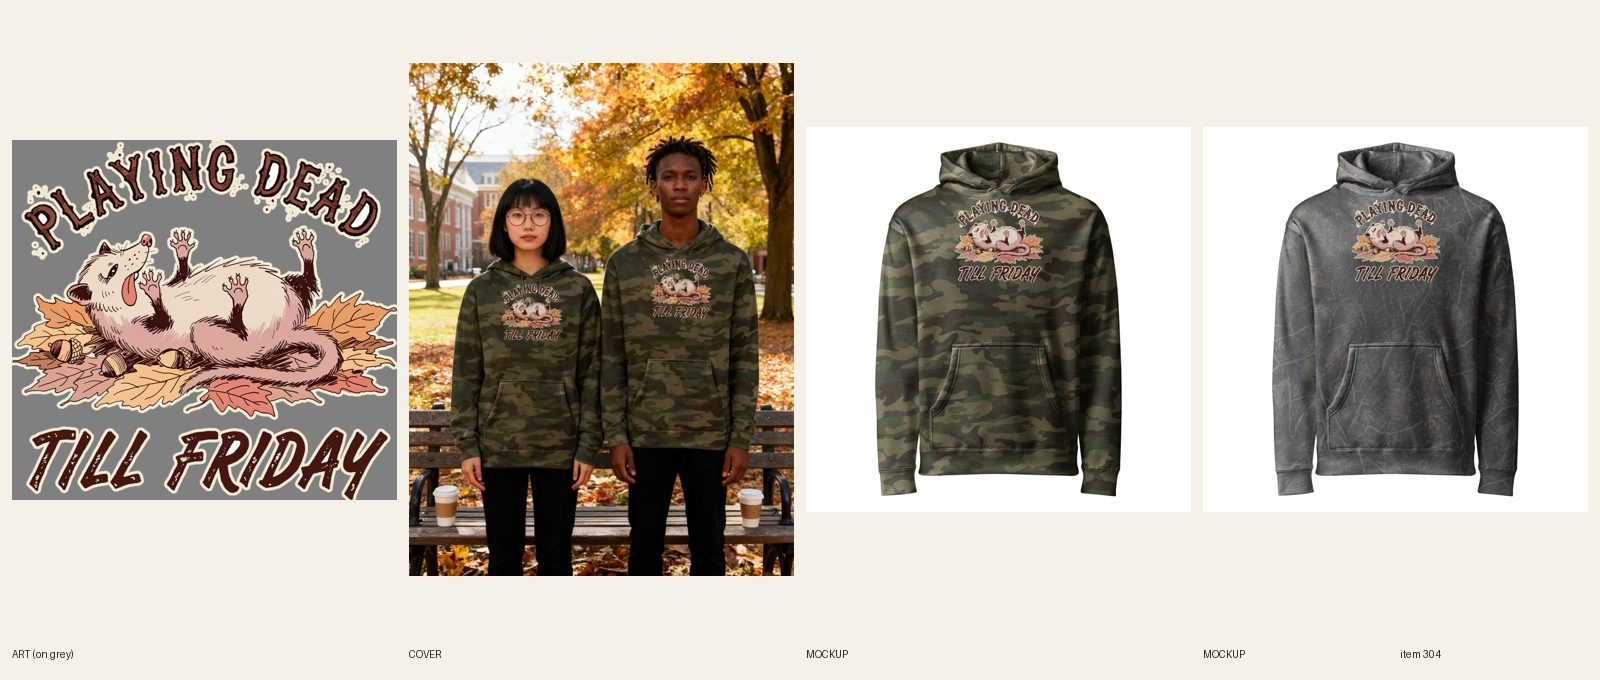
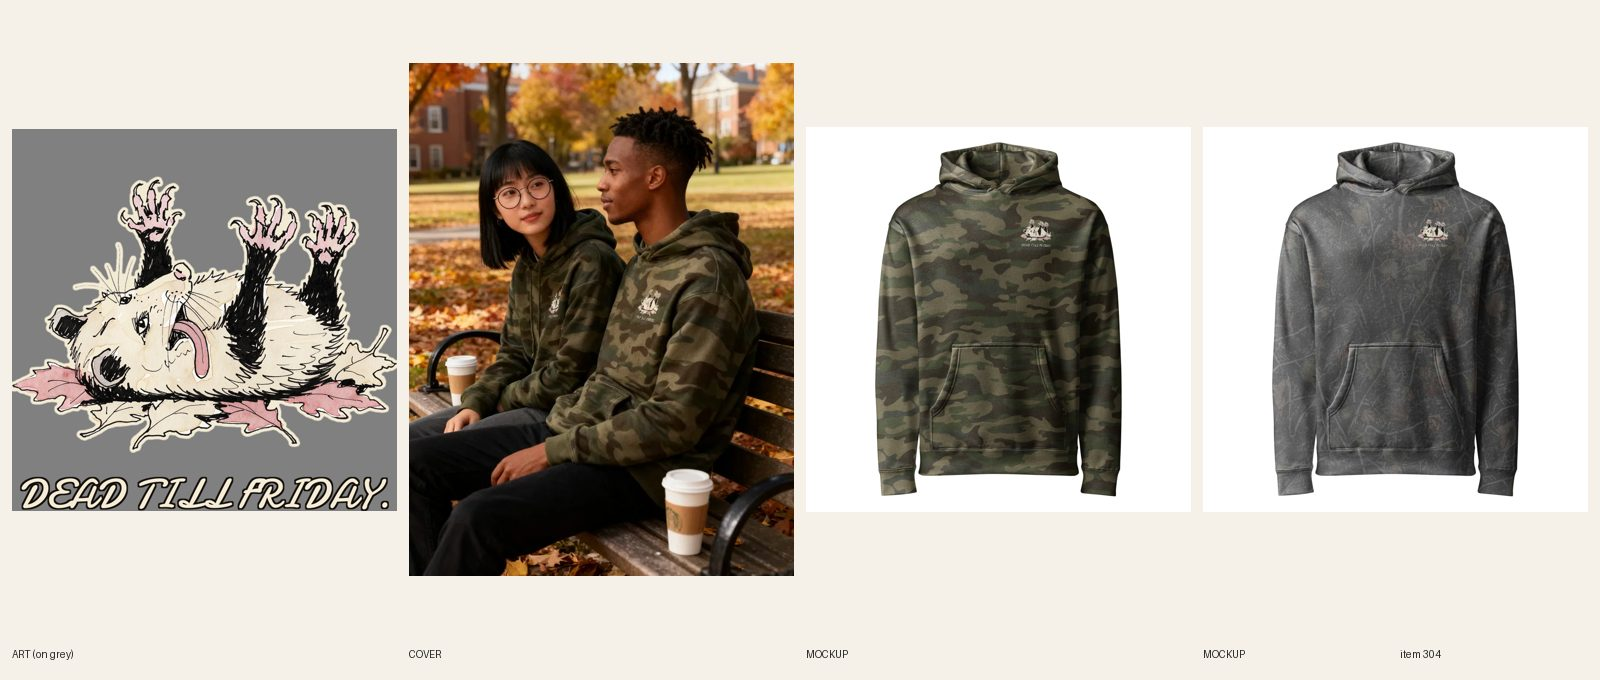
[B] review 304 camo redo 14 (possum sketchbook B3 print, lifestyle photos); run end, release lock

Changed region(s): [[0.0, 0.0926, 0.5, 0.8647], [0.8438, 0.2779, 0.9062, 0.4324], [0.5938, 0.2779, 0.6562, 0.4324]]

diff --git a/src/data/covers.ts b/src/data/covers.ts
@@ -323,7 +323,7 @@ export const covers: Record<string, { src: string; alt: string }> = {
   'womens-hunting-doe-not-disturb-camo-hoodie': { src: '/covers/womens-hunting-doe-not-disturb-camo-hoodie.webp', alt: 'Woman in her mid 30s with wavy dark hair and a few grey strands in a Forest Camo Doe Not Disturb sleepy doe hoodie, eyes closed, leaning on a pickup tailgate at a hayfield at golden hour with a thermos beside her' },
   'mens-hunting-i-saw-you-move-squirrel-camo-hoodie': { src: '/covers/mens-hunting-i-saw-you-move-squirrel-camo-hoodie.webp', alt: 'Man in his late 30s with short twists and light stubble in a Forest Camo Saw You Move hoodie with a small squirrel graphic on the left chest, smiling with a coffee on a hay bale beside a barn at golden hour' },
   'mens-hunting-antler-envy-buck-camo-hoodie': { src: '/covers/mens-hunting-antler-envy-buck-camo-hoodie.webp', alt: 'Man in his mid 40s with a trimmed red-brown beard in a Darkwood Tree Camo Antler Envy buck hoodie on a dirt two-track through autumn woods at first light beside a pickup with the tailgate down' },
-  'unisex-possum-playing-dead-camo-hoodie': { src: '/covers/unisex-possum-playing-dead-camo-hoodie.webp', alt: 'Man and woman in matching Forest Camo Playing Dead Till Friday possum hoodies standing by a leafy college-town park bench in October with coffee cups beside them' },
+  'unisex-possum-playing-dead-camo-hoodie': { src: '/covers/unisex-possum-playing-dead-camo-hoodie.webp', alt: 'Man and woman together on a leafy college-town park bench in October with coffee cups beside them, both in a Forest Camo Playing Dead Till Friday possum hoodie with a small possum graphic on the left chest' },
   'mens-hunting-call-me-after-duck-season-camo-sweatshirt': { src: '/covers/mens-hunting-call-me-after-duck-season-camo-sweatshirt.webp', alt: 'Man in his early 60s with a bald head and a grey goatee in an all-over woodland camo Call Me After Duck Season sweatshirt at a marsh boat ramp at sunrise with a dog sitting beside him' },
   'womens-hunting-here-for-the-sunrise-camo-sweatshirt': { src: '/covers/womens-hunting-here-for-the-sunrise-camo-sweatshirt.webp', alt: 'Woman in her late 40s with shoulder-length brown hair and caramel highlights smiling in an all-over woodland camo Only Here for the Sunrise sweatshirt in a wooden duck blind on a marsh at sunrise with a thermos on the bench' },
   'womens-nurse-dont-say-the-q-word-hoodie': { src: '/covers/womens-nurse-dont-say-the-q-word-hoodie.webp', alt: 'Woman in her early 40s with shoulder-length black hair and small hoop earrings in a Sand Don\'t Say the Q Word nurse hoodie in a hospital staff parking lot at dawn wearing navy scrub pants' },

diff --git a/designs/b304/lock.py b/designs/b304/lock.py
@@ -1,0 +1,14 @@
+import sys, subprocess; sys.path.insert(0, '.')
+from designs.lib import *
+from PIL import Image
+W = 2352; DARK = (20, 16, 12, 255)
+subprocess.run(['/usr/bin/python3', 'scripts/camo-halo.py', 'designs/b304/art_p.png', 'designs/b304/art_h.png', '50', '16'], check=True)
+ah = Image.open('designs/b304/art_h.png').convert('RGBA'); ah = ah.crop(ah.getbbox())
+ah = ah.resize((W, int(ah.height * W / ah.width)), Image.LANCZOS)
+t = line('DEAD TILL FRIDAY.', 'damion', 0.97, W, CREAM, DARK, kw=19)
+gap = 40; H = ah.height + gap + t.height; out = Image.new('RGBA', (W, H), (0, 0, 0, 0))
+out.alpha_composite(ah, ((W - ah.width) // 2, 0)); out.alpha_composite(t, ((W - t.width) // 2, ah.height + gap))
+out = out.crop(out.getbbox()); out.save('docs/print-files/304-possum.png', dpi=(300, 300))
+print(out.size, 'art', ah.size, 'art %of height', 100 * ah.height // out.height, 'cap', t.height, 'text w', t.width, 'cap at FW625 px', round(t.height * 625 / out.width))
+for n, c in (('darkwood', (60, 56, 44, 255)), ('forest', (52, 62, 44, 255))):
+    b = Image.new('RGBA', out.size, c); b.alpha_composite(out); b.convert('RGB').resize((500, int(500 * out.height / out.width))).save(f'designs/b304/prev_{n}.png')

diff --git a/designs/lib.py b/designs/lib.py
@@ -4,7 +4,7 @@ FD = 'designs/fonts/'
 CREAM = (246, 236, 214, 255)
 F = dict(alfa='AlfaSlabOne-Regular.ttf', anton='Anton-Regular.ttf', bevan='Bevan-Regular.ttf', big='BigShouldersDisplay[wght].ttf', bowlby='BowlbyOne-Regular.ttf',
          cinzel='Cinzel[wght].ttf', fraunces='Fraunces[SOFT,WONK,opsz,wght].ttf', oswald='Oswald[wght].ttf', playfair='PlayfairDisplay[wght].ttf',
-         playfairi='PlayfairDisplay-Italic[wght].ttf', rye='Rye-Regular.ttf', graduate='Graduate-Regular.ttf', yellowtail='Yellowtail-Regular.ttf', interblack='InterDisplay-Black.otf')
+         playfairi='PlayfairDisplay-Italic[wght].ttf', rye='Rye-Regular.ttf', graduate='Graduate-Regular.ttf', yellowtail='Yellowtail-Regular.ttf', interblack='InterDisplay-Black.otf', damion='Damion-Regular.ttf')
 VAR = dict(big=[900], cinzel=[900], fraunces=[9, 900, 60, 1], oswald=[700], playfair=[900], playfairi=[900])
 def line(text, font, wfrac, W, fill, key, kw=27, track=0):
     ff = F[font]; var = VAR.get(font)

diff --git a/docs/intake-log.md b/docs/intake-log.md
@@ -1,4 +1,5 @@
-RUNNING lane B since 2026-10-26 13:40 UTC
+2026-10-26 14:05 UTC — [B] Builder run end: 2 items, camo redo #13 #302 (field-guide buck, A+) and #14 #304 (sketchbook possum, B3); both ACTIVE, director to confirm. New products today: 0 of 6. fal ~$0.6. Lock released.
+2026-10-26 14:05 UTC — [B] REVIEW #304 Unisex Possum – Playing Dead Till Friday Camo Hoodie (camo-redo 14 of 27, S5 on B3, FW625 TOP300 LEFT1475, 14/14 on 1095453182, cap 56 px at FW625, art 89% of height, Damion; 2 lifestyle photos). Product ACTIVE, director to confirm.
 2026-10-26 14:25 UTC — [B] REVIEW #302 Men's Hunting – Antler Envy Camo Hoodie (camo-redo 13 of 27, S2 on A+, FW1500 TOP400, 14/14 on 1095448715, line 2955 px, subject 100%, cap 304 of 2521 px, Cinzel; 2 lifestyle photos). Product ACTIVE, director to confirm. fal ~$0.25.
 2026-10-25 23:42 UTC — [H] Helper run: Telegram inbox empty (getUpdates returned 0 updates; no pause, resume or TikTok links; nothing to consume). Shopify: 0 orders since 2026-10-25 14:42 UTC, so no order alert and no Printful hold check. Audit 732 live products: 7 ERRORs, all visual (unisex product on women's/men's grids with a wrong-person cover, same as already noted), 163 warnings left alone; no scripted fixes; no price errors. npm ci first (esbuild was missing). Committed docs/cohesion-audit.md and .json. Category check: 0 products without a Shopify category (no mutation). Site check: womens-hiking-treat-me-like-wildlife-camo-hoodie, mens-hunting-i-saw-you-move-squirrel-camo-hoodie and mens-hunting-long-beard-short-temper-camo-hoodie all 200; /hoodies/hunting-hoodies/ and homepage 200. Stuck work: no BUILDING item over 3 hours; no other lane lock held. Daily summary not due (sent at the 14:42 run). Lock released.
 2026-10-25 23:14 UTC — [D] Director run: inbox nothing new. Reviewed 2 camo redo sheets, both LIVE in place (already ACTIVE, not new products): #901 Treat Me Like Wildlife (S4 retro sun on A+, punch 104%, copied to reference/best) and #301 Saw You Move squirrel (S8 icon on B3, caps ~59 px, soft cover caption per the B3 photo rule); audit --handle PASS 0 warn each, pages 200 (npm ci first, esbuild was missing). No new LIVE products: Oct 25 Chicago cap (6) reached at the 14:23 run. No new briefs: 56 READY, over the 6-12 target. No Telegram (not a digest run; nothing needs Sam). Lock released.

diff --git a/docs/pipeline/304-camo-hoodie-possum-playing-dead.md b/docs/pipeline/304-camo-hoodie-possum-playing-dead.md
@@ -1,4 +1,4 @@
-status: REDO
+status: REVIEW
 lane: B
 type: new
 id: 304
@@ -26,3 +26,4 @@ handle: unisex-possum-playing-dead-camo-hoodie
 - 2026-10-17 02:15 UTC director: approved from docs/review/304.jpg; ACTIVE + Online Store + Headless + Google; cohesion-audit --handle PASS (0 warn). LIVE.
 - 2026-10-22 22:00 UTC Claude (Sam): REDO, camo redo #14 of 27, style S5. New art in its own style, no box, no condensed sans, placement per docs/backlog/camo-redo.md (never TOP 0). Redo in place.
 - 2026-10-22 22:40 UTC Claude (Sam): placement A/B test, this item is B3 (left chest at the seam, tag placement-b).
+- 2026-10-26 14:5 UTC [B]: camo-redo #14 (S5 sketchbook on B3, tag placement-b), in place on product 15362843345200. New art: 1 Recraft call (ink-and-watercolor possum on its back, tongue out, one eye open, leaves), specks removed, cream halo; line shortened to DEAD TILL FRIDAY. (3 words, same idea; title unchanged) in Damion (lane B last 5 faces: Bevan, Lobster, Rye, Alfa, Cinzel; Damion not among them), cream with dark keyline. Art 89% of print height, cap 209 px at file width 2352 (FW625 scale 56 px >= 53). Print 2352 x 2336, FW625 TOP300 LEFT1475. R7.7: 14/14 on file 1095453182. Front mockups replaced in place. Copy, SEO, FAQ (5), placement-b tag rewritten. Lifestyle: registry 1158 + 1159 (couples, unisex), 1 seedream call each kept (park bench cover, farm fence image 2; captions soft blur, icon reads, no hand over print), covers.ts alt updated. Audit PASS. Sheet docs/review/304.jpg. Product is ACTIVE: director to confirm. fal ~$0.2.

diff --git a/docs/model-registry.md b/docs/model-registry.md
@@ -950,3 +950,5 @@ Rows 11–43 were re-pointed on 2026-10-08 when the briefs were rewritten from d
 | 1155 | Korean-American woman, early 30s, shoulder-length black hair with bangs, trail-running build, no hat | USED 2026-10-25 — #901 camo redo cover + second photo |
 | 1156 | Black man, late 30s, short twists, light stubble, athletic build, no hat | USED 2026-10-25 — #301 camo redo cover + second photo |
 | 1157 | white man, mid 40s, short sandy-brown hair, trimmed red-brown beard, no hat, medium build | USED 2026-10-26 — #302 camo redo cover + second photo |
+| 1158 | man AND woman together: Vietnamese-American woman, mid 20s, chin-length black bob, round glasses; Black man, mid 20s, short twists, slim build | USED 2026-10-26 — #304 camo redo cover |
+| 1159 | man AND woman together: white man, late 20s, short brown hair, light stubble, lean build; Mexican-American woman, late 20s, long dark hair tied back, medium build | USED 2026-10-26 — #304 camo redo second photo |
